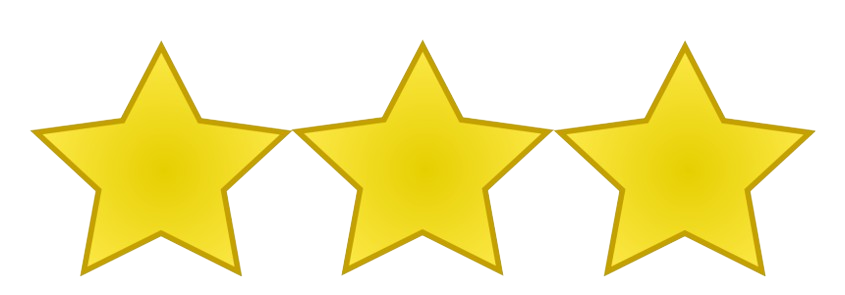
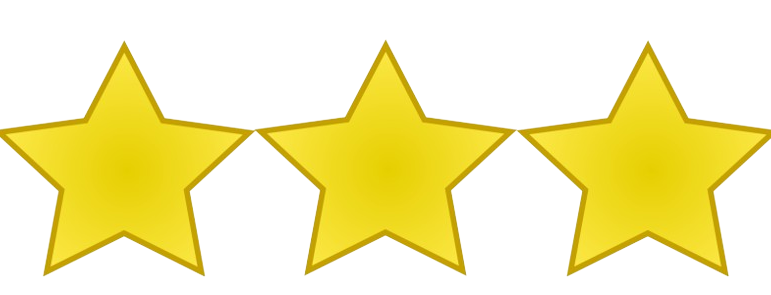
added stars for the levels

Changed region(s): [[0.0, 0.1525, 0.5292, 0.9458], [0.5292, 0.1525, 1.0, 0.9458]]

diff --git a/Game/mainwindow.cpp b/Game/mainwindow.cpp
@@ -193,7 +193,7 @@ void MainWindow::updateWorld() {
 
     }
 
-    if (counter == 0) {
+    if (counter == 2) {
 
         MidMenu *midmenu = new MidMenu;
         StartMenu *start = new StartMenu;
@@ -202,17 +202,19 @@ void MainWindow::updateWorld() {
 
         midmenu->get_window(this);
 
-        MusicPlayer->stop();
+        //MusicPlayer->stop();
         midmenu->level = levels[currentLevel];
         midmenu->currentLevelIndex = currentLevel;
 
-        float totalRockets = (float)lvl->getWinOffset() + (float)lvl->getDifficulty(); // total rockets is win offset plus remaining rockets
+        float totalRockets = (float)midmenu->level->getWinOffset() + (float)midmenu->level->getDifficulty(); // total rockets is win offset plus remaining rockets
         float rocketsUsed = totalRockets - (float)counter; // rockets used is total rockets minus remaining rockets
-        float score = ((totalRockets - rocketsUsed + (float)lvl->getWinOffset()) ) / totalRockets;
+        float score = ((totalRockets - rocketsUsed + (float)midmenu->level->getWinOffset()) ) / totalRockets;
         if (score > 100) {
             score = 100; // Ensure score doesn't exceed 100
         }
         midmenu->score= score;
+
+        lvl = midmenu->level;
 
         midmenu->get_level(midmenu->getNextLevel());
 

diff --git a/Game/midmenu.cpp b/Game/midmenu.cpp
@@ -9,13 +9,25 @@ MidMenu::MidMenu(QWidget *parent) :
 {
     ui->setupUi(this);
     ui->labelBackground->setPixmap(QPixmap(":/Resources/Images/Level3.png"));
-    ui->labelBlackStars->setPixmap(QPixmap(":/Resources/Images/blackStars.png"));
-    ui->labelColoredStars->setPixmap(QPixmap(":/Resources/Images/coloredStars.png"));
-
 
     setWindowFlags(Qt::Window
                    | Qt::WindowMinimizeButtonHint
                    | Qt::WindowMaximizeButtonHint);
+
+    ui->labelBlackStars->setPixmap(QPixmap(":/Resources/Images/blackStars.png").scaled(300,100));
+    ui->labelColoredStars->setPixmap(QPixmap(":/Resources/Images/coloredStars.png").scaled(300,100));
+
+    winoffset =1;
+
+    if(winoffset == 0)
+    {
+        ui->labelColoredStars->setMargin(-200);
+    }
+    else if(winoffset == 1)
+    {
+        ui->labelColoredStars->setMargin(-100);
+    }
+
 }
 
 MidMenu::~MidMenu()

diff --git a/Game/startmenu.cpp b/Game/startmenu.cpp
@@ -93,6 +93,7 @@ void StartMenu::on_pushButtonlevel1_clicked() {
     currentLevel = 0;
     Level *lvl1 = getCurrentLevel();
 
+
     lvl1->drawObstacles();
     lvl1->window->setCurrentLevel(currentLevel);
     lvl1->window->showFullScreen();

diff --git a/Game/level.h b/Game/level.h
@@ -42,7 +42,7 @@ public:
         return difficulty;
     };
 
-    int getWinOffset() const { return winOffset; }
+    int getWinOffset() const;
 
     int winOffset;
 

diff --git a/Game/level.cpp b/Game/level.cpp
@@ -98,3 +98,8 @@ QVector<Obstacles*> Level::get_towers()
 {
     return Towers;
 }
+
+int Level::getWinOffset() const
+{
+     return winOffset;
+}

diff --git a/Game/midmenu.h b/Game/midmenu.h
@@ -48,6 +48,8 @@ private:
 
     MainWindow* main;
 
+    int winoffset;
+
 };
 
 #endif // MIDMENU_H
